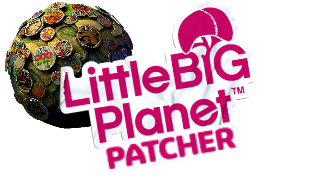
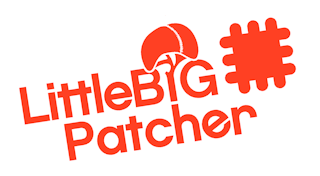
Changed `ICON0.PNG` to one by Arcadius2006

diff --git a/source/save_folders.h b/source/save_folders.h
@@ -1,7 +1,7 @@
 #ifndef SAVE_FOLDERS_H_   /* Include guard */
 #define SAVE_FOLDERS_H_
 
-#define VERSION_NUM_STR "v2.017"
+#define VERSION_NUM_STR "v2.018"
 
 #define ROOT_DIR "/dev_hdd0/game/LBPCSPPHB/USRDIR/"
 #define WORKING_DIR ROOT_DIR "temp_files/"
